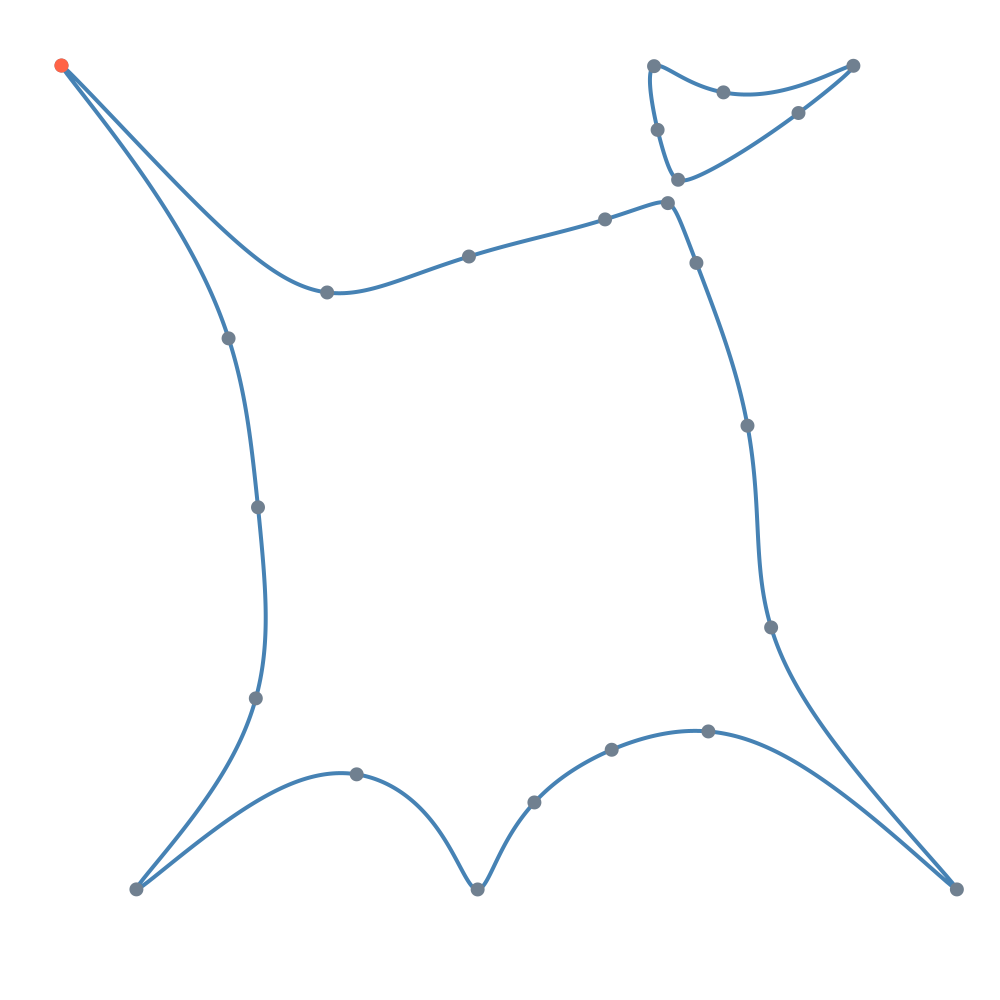
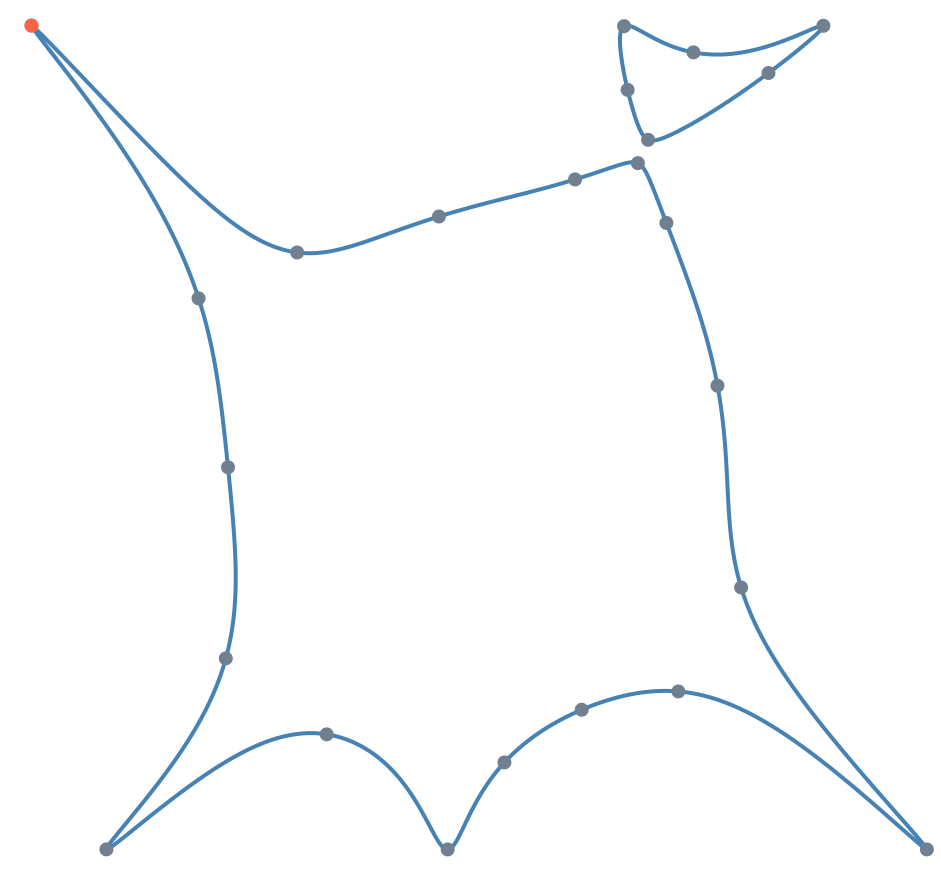
Add figure captions

diff --git a/content/examples/reach-curve.md b/content/examples/reach-curve.md
@@ -22,7 +22,12 @@ $$
 f(x,y) = (x^3 - xy^2 + y + 1)^2(x^2+y^2 - 1)+y^2-5 = 0
 $$
 
-<p style="text-align:center;"><img src="/images/curve_reach.png" width="500px"/></p>
+<figure>
+<img src="/images/curve_reach.png" style="width:80%;display: block;margin-left: auto;margin-right: auto;">
+<figcaption style="text-align:center;">
+The curve $C \subset \mathbb{R}^2$ defined by $f(x,y) = (x^3 - xy^2 + y + 1)^2(x^2+y^2 - 1)+y^2-5 = 0$.
+</figcaption>
+</figure>
 
 
 As pointed out by [Aamari et. al.](https://arxiv.org/pdf/1705.04565.pdf) the reach is the determined by the bottlenecks of $C$, which quantify how close $C$ is from being self-intersecting, and the curvature of $C$:
@@ -121,13 +126,19 @@ for (p₁,p₂,q₁,q₂) in bn_pairs
   plot!([p₁, q₁], [p₂, q₂];
         color = :slategray, grid=false, linestyle=:dot)
 end
-# Draw smallest bottleneck in red
+# Draw narrowest bottleneck in red
 narrowest_bn_pair = bn_pairs[ρ_min_ind]
 plot!(narrowest_bn_pair[[1,3]], narrowest_bn_pair[[2,4]];
       color = :tomato, grid=false, linewidth = 3)
 ```
 
-<p style="text-align:center;"><img src="/images/curve_reach_bottlenecks.png" width="500px"/></p>
+
+<figure>
+<img src="/images/curve_reach_bottlenecks.png" style="width:80%;display: block;margin-left: auto;margin-right: auto;">
+<figcaption style="text-align:center;">
+The curve $C$ and its bottlenecks dashed in gray. The narrowest bottleneck is colored <span style="color:tomato">red</span>.
+</figcaption>
+</figure>
 
 ## Maximal curvature
 
@@ -203,7 +214,11 @@ scatter!(max_curv_pt[1:1], max_curv_pt[2:2];
          color=:tomato, grid=false)
 ```
 
-<p style="text-align:center;"><img src="/images/curve_reach_curvature.png" width="500px"/></p>
-
+<figure>
+<img src="/images/curve_reach_curvature.png" style="width:80%;display: block;margin-left: auto;margin-right: auto;">
+<figcaption style="text-align:center;">
+The curve $C$ and its points of critical curvature. The point of maximal curvature is in <span style="color:tomato">red</span>.
+</figcaption>
+</figure>
 
 {{<bibtex >}}
